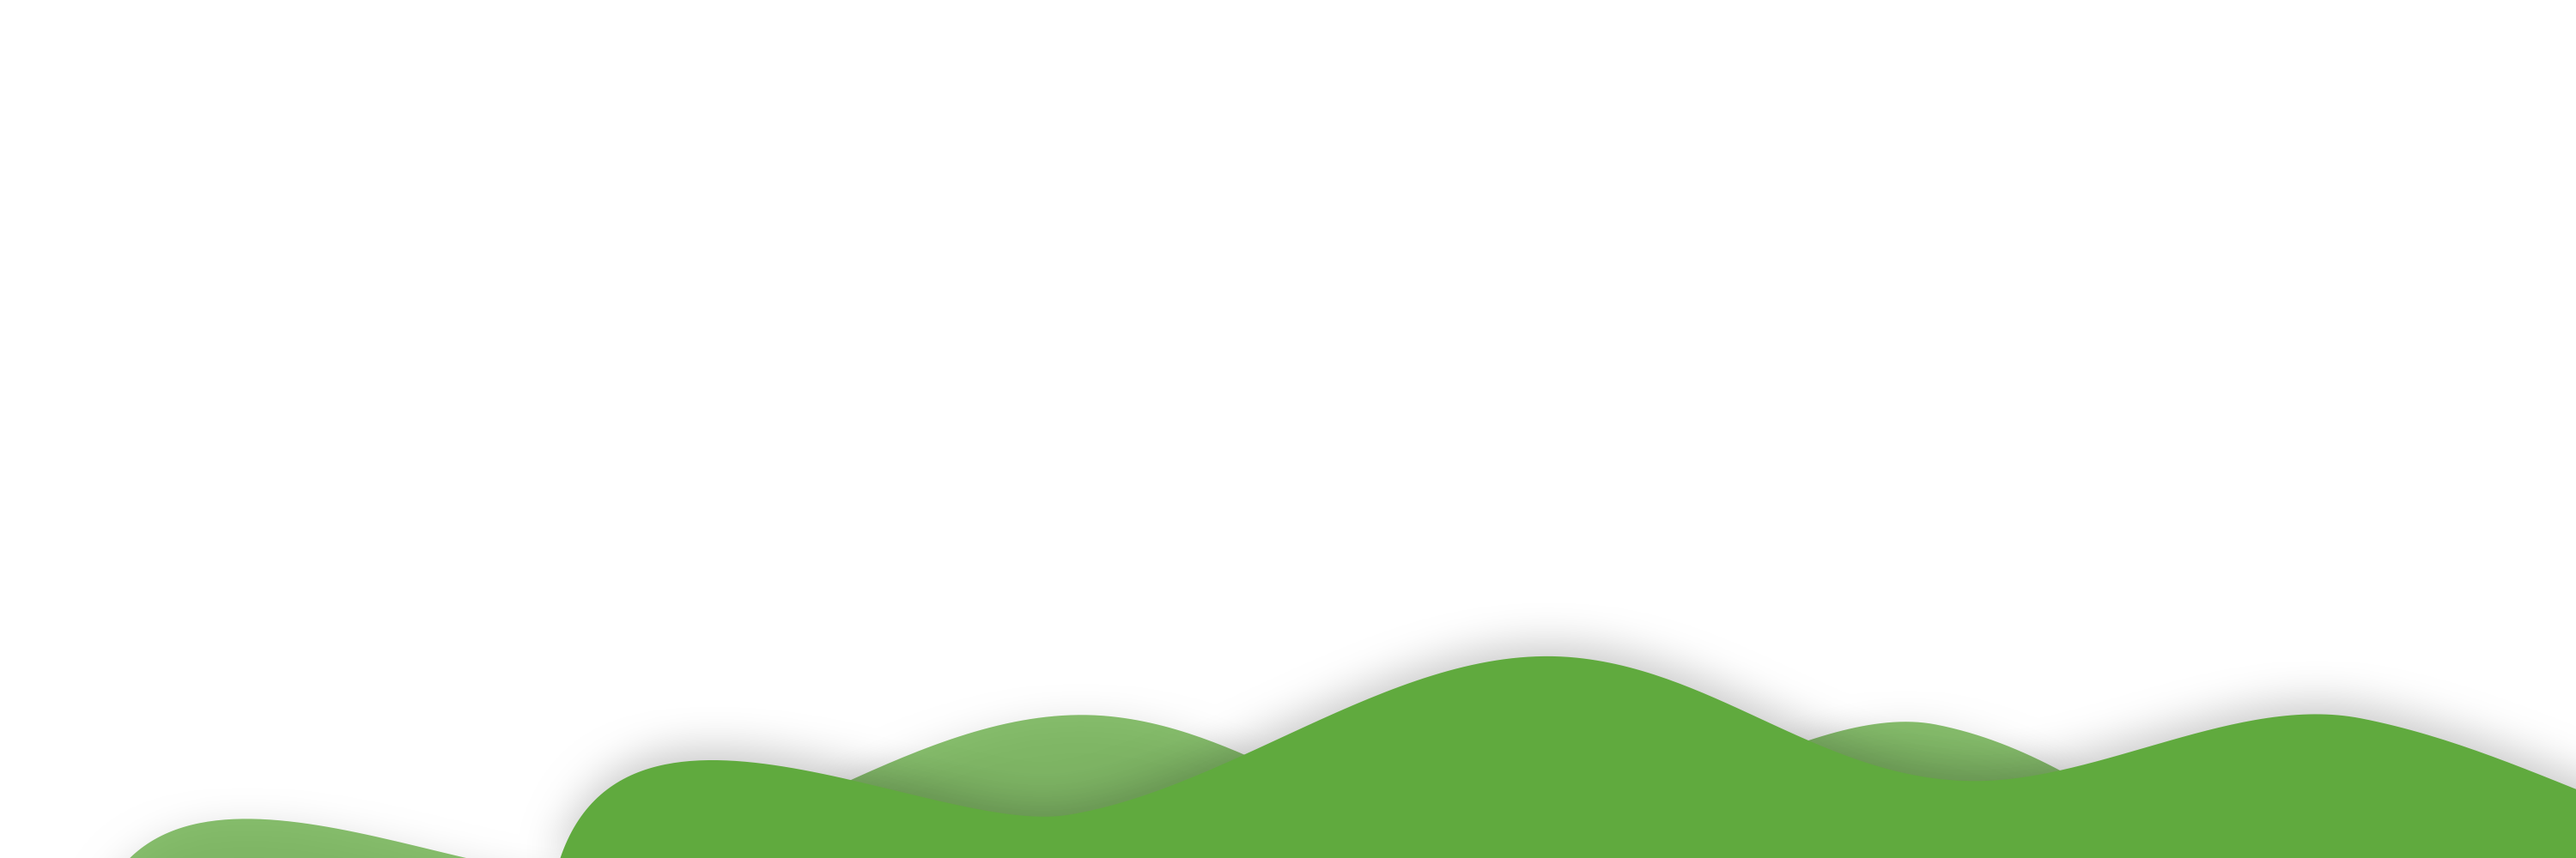
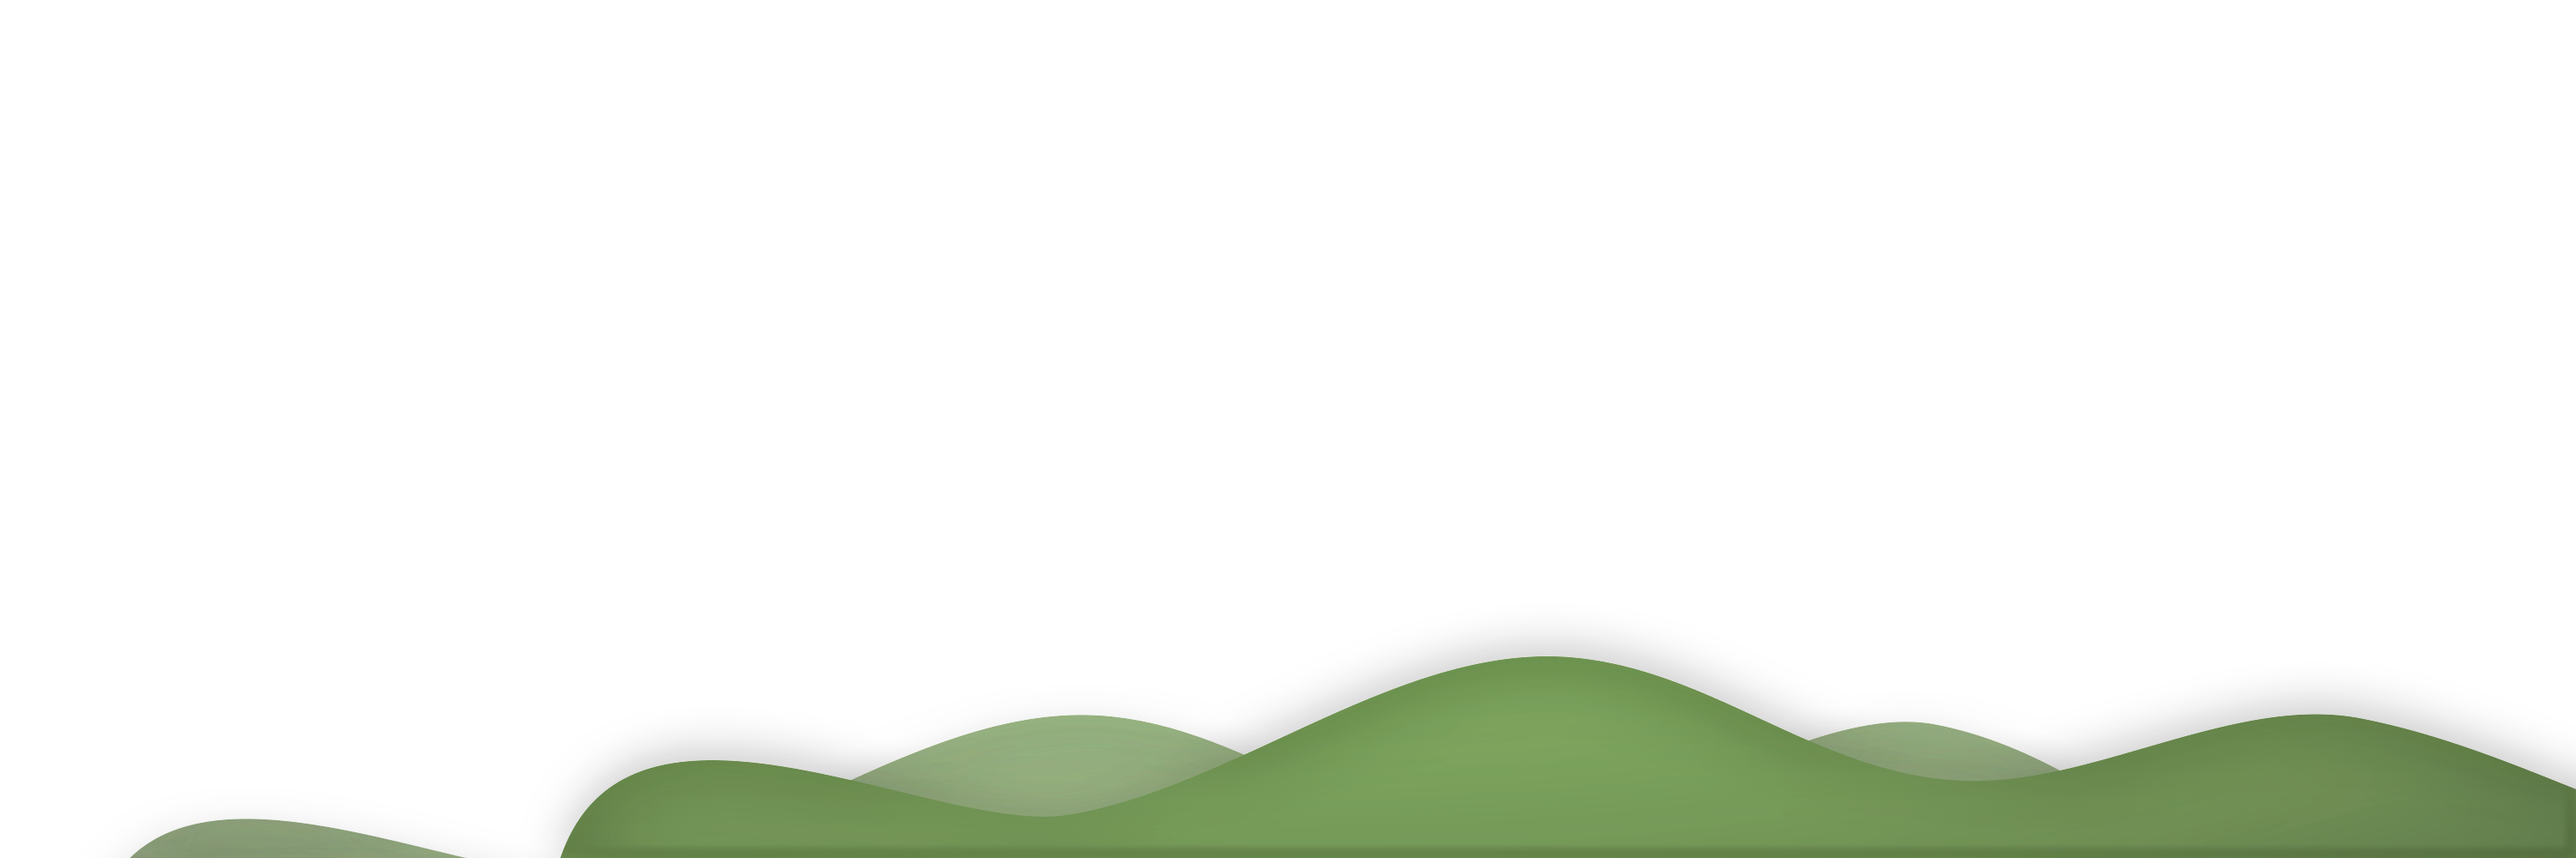
Tweaks to website color

Changed region(s): [[0.217, 0.775, 1.0, 1.0], [0.031, 0.93, 0.186, 1.0]]

diff --git a/docs/browserbug/style.css b/docs/browserbug/style.css
@@ -9,24 +9,27 @@
     box-sizing: border-box;
 }
 
+html{
+    width:100%;
+    height:100%;
+    background-image: radial-gradient(rgb(225, 243, 233), rgb(232, 247, 245), #b2e7e7);
+}
+
 /*  GLOBAL */
 body{
     font-family: 'Assistant', sans-serif;
     color: #3E4350;
     cursor: default;
     background-size: 25px 25px;
-    background-color:#cffffd;
+    /*background-color:#cffffd;*/
     height: 100%; 
 }
-
 
 a{
     text-decoration: none;
     color: #3E4350;
     font-weight: 700;
     padding: 20px;
-    
-
 } 
 
 li{
@@ -42,9 +45,6 @@ h2, h1, .socials{
 
 }
 
-
-
-
 /* BACKGROUND IMAGES */
 #house{
     position: absolute;
@@ -53,7 +53,6 @@ h2, h1, .socials{
     height: calc(min(80vh, 60vw));
     z-index: -999;
 }
-
 
 #grass{
     position: absolute;
@@ -82,27 +81,26 @@ h2, h1, .socials{
 }
 
 .textBox{
-    
     display: flex;
     flex-direction: column;
     align-items: flex-end;
-    
-    
 }
 
 .textBox h1{
     font-family: 'Gaegu', sans-serif;
-    font-weight: 600;
+    font-weight: 500;
     text-transform: lowercase;
     font-size: calc(max(8vw, 3rem));
-    text-shadow: 0px 2px 20px rgba(0, 0, 0, .3);
+    color: #000000;
+    /*text-shadow: 0px 2px 20px rgba(0, 0, 0, .3);*/
 }
 
 .textBox h2{
-    color: #F4A180;
+    color: #000000;
+    opacity: .6;
+    font-family: 'Gaegu', sans-serif;
     font-size: calc(max(2vw, 1rem));
     white-space: nowrap;
-
 }
 
 .socials{
@@ -201,16 +199,13 @@ nav{
     background-color:#F4A180;
     font-weight: 700;
     color: #3E4350;
-    
-   
-    
 }
 /* FOOTER */
 footer {
     position: fixed;
     left: 0; bottom: 0;
     height: 35px; width: 100%;
-    background: rgba(255, 255, 255, 0.2);
+    background: rgba(255, 255, 255, 0.5);
     font-size: 14px;
     white-space: nowrap;
 }
@@ -224,10 +219,7 @@ footer ul{
 footer p {
 	text-align: center;
 	color: #000000;
-    font-weight: 400; font-size: 14px;
-
-    
-    
+    font-weight: 400; font-size: 14px;    
 }
 #copyright{
     font-weight: 400;
@@ -248,7 +240,6 @@ footer a:not(#copyright):hover{
     .nav-content{
         width: 75%;
     }
-
 }
 
 @media screen and (max-width: 830px){
@@ -310,12 +301,7 @@ footer a:not(#copyright):hover{
     .btn:hover{
         background-color:#ffffff;
         color: #3E4350;
-        
-       
-        
     }
-    
-
 }
 
 /* FOR HAMBURGER MENU ANIMATION */

diff --git a/docs/browserbug/index.html b/docs/browserbug/index.html
@@ -17,18 +17,18 @@
         </div>
         <div class="nav-content">
             <ul class="nav-links">
-                <li><a target="_blank" href="https://imma.studio/browserbug/about_us/">About Us</a>
+                <li><a href="https://imma.studio/browserbug/about_us/">About Us</a>
                 </li>
-                <li><a target="_blank" href="https://imma.studio/browserbug/about/">About Browserbug</a>
+                <li><a href="https://imma.studio/browserbug/about/">About Browserbug</a>
                 </li>
-                <li><a target="_blank" href="https://imma.studio/browserbug/faq/">FAQ</a>
+                <li><a href="https://imma.studio/browserbug/faq/">FAQ</a>
                 </li>
-                <li><a target="_blank" href="mailto:browserbug@imma.studio">Contact Us</a>
+                <li><a href="mailto:browserbug@imma.studio">Contact Us</a>
                 </li>
             </ul>
             <a target="_blank"
                 href="https://chrome.google.com/webstore/detail/browserbug-beta/pfggohdmelklomhabkeegajkjpdgppld"
-                class="btn">Download</a>
+                class="btn">View in Chrome Web Store</a>
         </div>
         <div class="burger">
             <div class="line1"></div>
@@ -43,8 +43,8 @@
         <img id="bee" class="animate__animated animate__backInDown" src="./website_images/bee.png" alt="bee">
 
         <div class="textBox">
+            <h2>making virtual work less lonely</h2>
             <h1>Browserbug</h1>
-            <h2>making virtual work less lonely :)</h2>
             <ul class="socials">
                 <li><a target="_blank" href="https://twitter.com/browser_bug"> <img
                     src="./icons/twitter-icon.png"></a></li>
